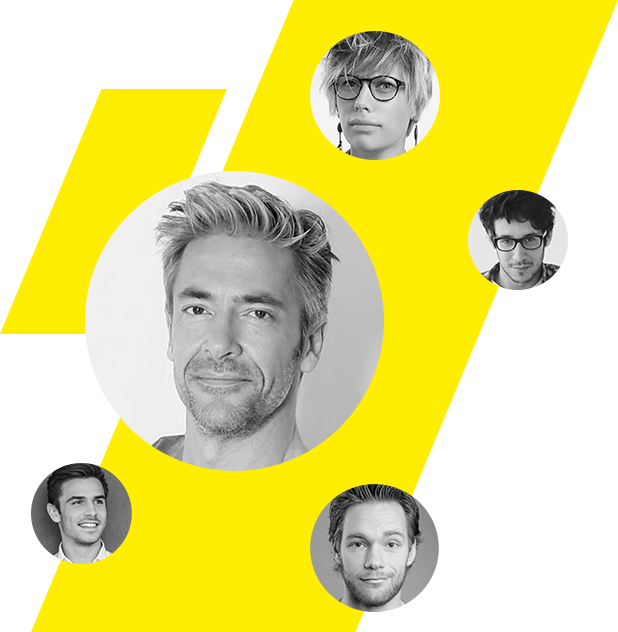
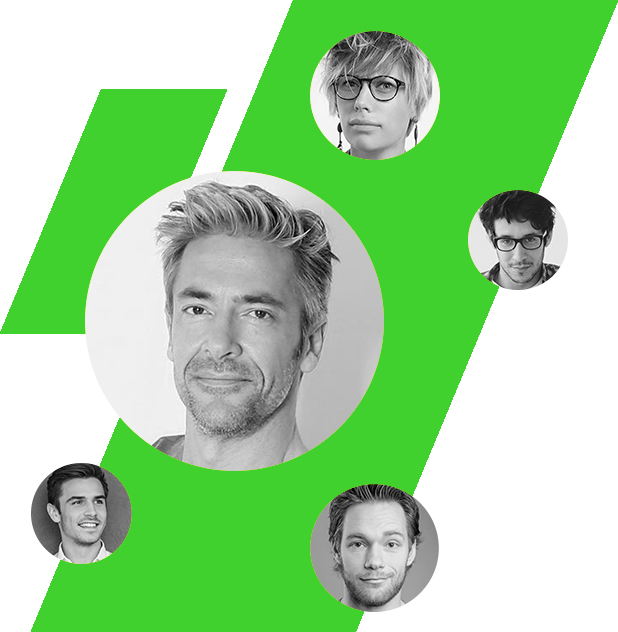
update new

diff --git a/public/assets/css/style.css b/public/assets/css/style.css
@@ -151,6 +151,115 @@ a:hover{
     text-transform: uppercase;
     letter-spacing: 2px;
 }
+
+
+
+#notfound {
+    position: relative;
+    height: 100vh;
+  }
+  
+  #notfound .notfound {
+    position: absolute;
+    left: 50%;
+    top: 50%;
+    -webkit-transform: translate(-50%, -50%);
+        -ms-transform: translate(-50%, -50%);
+            transform: translate(-50%, -50%);
+  }
+  
+  .notfound {
+    max-width: 520px;
+    width: 100%;
+    line-height: 1.4;
+    text-align: center;
+  }
+  
+  .notfound .notfound-404 {
+    position: relative;
+    height: 200px;
+    margin: 0px auto 20px;
+    z-index: -1;
+  }
+  
+  .notfound .notfound-404 h1 {
+    font-family: 'Montserrat', sans-serif;
+    font-size: 236px;
+    font-weight: 200;
+    margin: 0px;
+    color: #211b19;
+    text-transform: uppercase;
+    position: absolute;
+    left: 50%;
+    top: 50%;
+    -webkit-transform: translate(-50%, -50%);
+        -ms-transform: translate(-50%, -50%);
+            transform: translate(-50%, -50%);
+  }
+  
+  .notfound .notfound-404 h2 {
+    font-family: 'Montserrat', sans-serif;
+    font-size: 28px;
+    font-weight: 400;
+    text-transform: uppercase;
+    color: #211b19;
+    background: #fff;
+    padding: 10px 5px;
+    margin: auto;
+    display: inline-block;
+    position: absolute;
+    bottom: 0px;
+    left: 0;
+    right: 0;
+  }
+  
+  .notfound a {
+    font-family: 'Montserrat', sans-serif;
+    display: inline-block;
+    font-weight: 700;
+    text-decoration: none;
+    color: #fff;
+    text-transform: uppercase;
+    padding: 13px 23px;
+    background: #41d12e;
+    font-size: 18px;
+    -webkit-transition: 0.2s all;
+    transition: 0.2s all;
+  }
+  
+  .notfound a:hover {
+    color: #41d12e;
+    background: #484848;
+  }
+  
+  @media only screen and (max-width: 767px) {
+    .notfound .notfound-404 h1 {
+      font-size: 148px;
+    }
+  }
+  
+  @media only screen and (max-width: 480px) {
+    .notfound .notfound-404 {
+      height: 148px;
+      margin: 0px auto 10px;
+    }
+    .notfound .notfound-404 h1 {
+      font-size: 86px;
+    }
+    .notfound .notfound-404 h2 {
+      font-size: 16px;
+    }
+    .notfound a {
+      padding: 7px 15px;
+      font-size: 14px;
+    }
+  }
+  
+  
+  
+
+
+
 .heading figure {
     margin-bottom: 20px;
 }
@@ -411,7 +520,7 @@ button.scrollTopStick.active:before,
     background: transparent;
     border-left: 0 solid transparent;
     border-right: 30px solid transparent;
-    border-top: 65px solid #ffee02;
+    border-top: 65px solid #41d12e;
 }
 .desktop-nav .nav-bar .extras .theme-btn.simple:after {
     display: none;
@@ -545,7 +654,7 @@ textarea {
     position: absolute;
     bottom: 0;
     right: 0px;
-    border-top: 76px solid #ffee02;
+    border-top: 76px solid #41d12e;
     border-left: 0px solid #eee;
     border-right: 30px solid transparent;
     border-bottom: 0px solid #eee;
@@ -2484,7 +2593,7 @@ button.scrollTopStick:hover i {
     top: -2px;
     right: -32px;
     border-right: 28px solid transparent;
-    border-top: 60px solid #ffee02;
+    border-top: 60px solid #41d12e;
 }
 .desktop-nav .nav-bar .extras .theme-btn svg {
     width: 25px;
@@ -2883,7 +2992,7 @@ button.scrollTopStick:hover i {
     color: black;
 }
 .pricing-plans .price-box:hover .theme-btn:after {
-    border-top-color: #ffee02;
+    border-top-color: #41d12e;
 }
 .pricing-plans .price-img img {
     width: 100%;

diff --git a/public/assets/css/color.css b/public/assets/css/color.css
@@ -3,7 +3,7 @@
 .contact-form-2 .info ul li svg,
 .team-detail .team-data .t-tel .data svg,
 .video-play-btn svg {
-    fill: #ffee02; 
+    fill: #41d12e; 
 }
 
 /*Color*/
@@ -13,7 +13,7 @@
 .what-we-build .wwb-ul li.active:before,
 .w-counter ul li h2,
 .first .nav-tabs li button.active {
-    color: #ffee02;
+    color: #41d12e;
 }
 
 /*Light bg color*/
@@ -23,7 +23,7 @@ button.scrollTopStick.active,
 .loading-text .letter:nth-child(1)::before,
 .loading-text .letter:nth-child(5)::before
  {
-    background-color: #fffab3;
+    background-color: #b5fdab;
 }
 
 /*Dark bg color*/
@@ -111,7 +111,7 @@ button.scrollTopStick.active,
 .cart .cart-table .c-c .c-data .cr-svg:hover,
 .first .tab-data .map-pin,
 .first .tab-data .map-pin .location {
-    background-color: #ffee02;
+    background-color: #41d12e;
 }
 
 /*Border color*/
@@ -159,7 +159,7 @@ textarea:focus-visible,
 .featured-slider-one .owl-nav button.owl-next:before,
 .cart .cart-table .c-c .c-data .cr-svg:hover,
 .first .tab-data .map-pin .location {
-    border-color: #ffee02;
+    border-color: #41d12e;
 }
 .preloader{
     background-color: #ffffff;

diff --git a/src/pages/NotFound.js b/src/pages/NotFound.js
@@ -1,0 +1,26 @@
+import React from 'react'
+import { Helmet } from 'react-helmet'
+
+export default function NotFound() {
+
+  return (
+    <>
+      <Helmet>
+        <meta charSet="utf-8" />
+        <title>Oops Page Not Found.......</title>
+      </Helmet>
+      <div>
+        <div id="notfound">
+          <div class="notfound">
+            <div class="notfound-404">
+              <h1>Oops!</h1>
+              <h2>404 - The Page can't be found</h2>
+            </div>
+            <a className="link" href="/">Go TO Homepage</a>
+          </div>
+        </div>
+      </div>
+    </>
+  )
+}
+

diff --git a/src/index.js b/src/index.js
@@ -8,6 +8,7 @@ import About from './pages/About';
 import Team from './pages/Team';
 import History from './pages/History';
 import Contact from './pages/Contact';
+import NotFound from './pages/NotFound';
 
 const root = ReactDOM.createRoot(document.getElementById('root'));
 root.render(
@@ -18,6 +19,7 @@ root.render(
       <Route path="/team" element={<Team />} />
       <Route path="/history" element={<History />} />
       <Route path="/contact" element={<Contact />} />
+      <Route path="*" element={<NotFound />} />
     </Routes>
   </BrowserRouter>
 );
